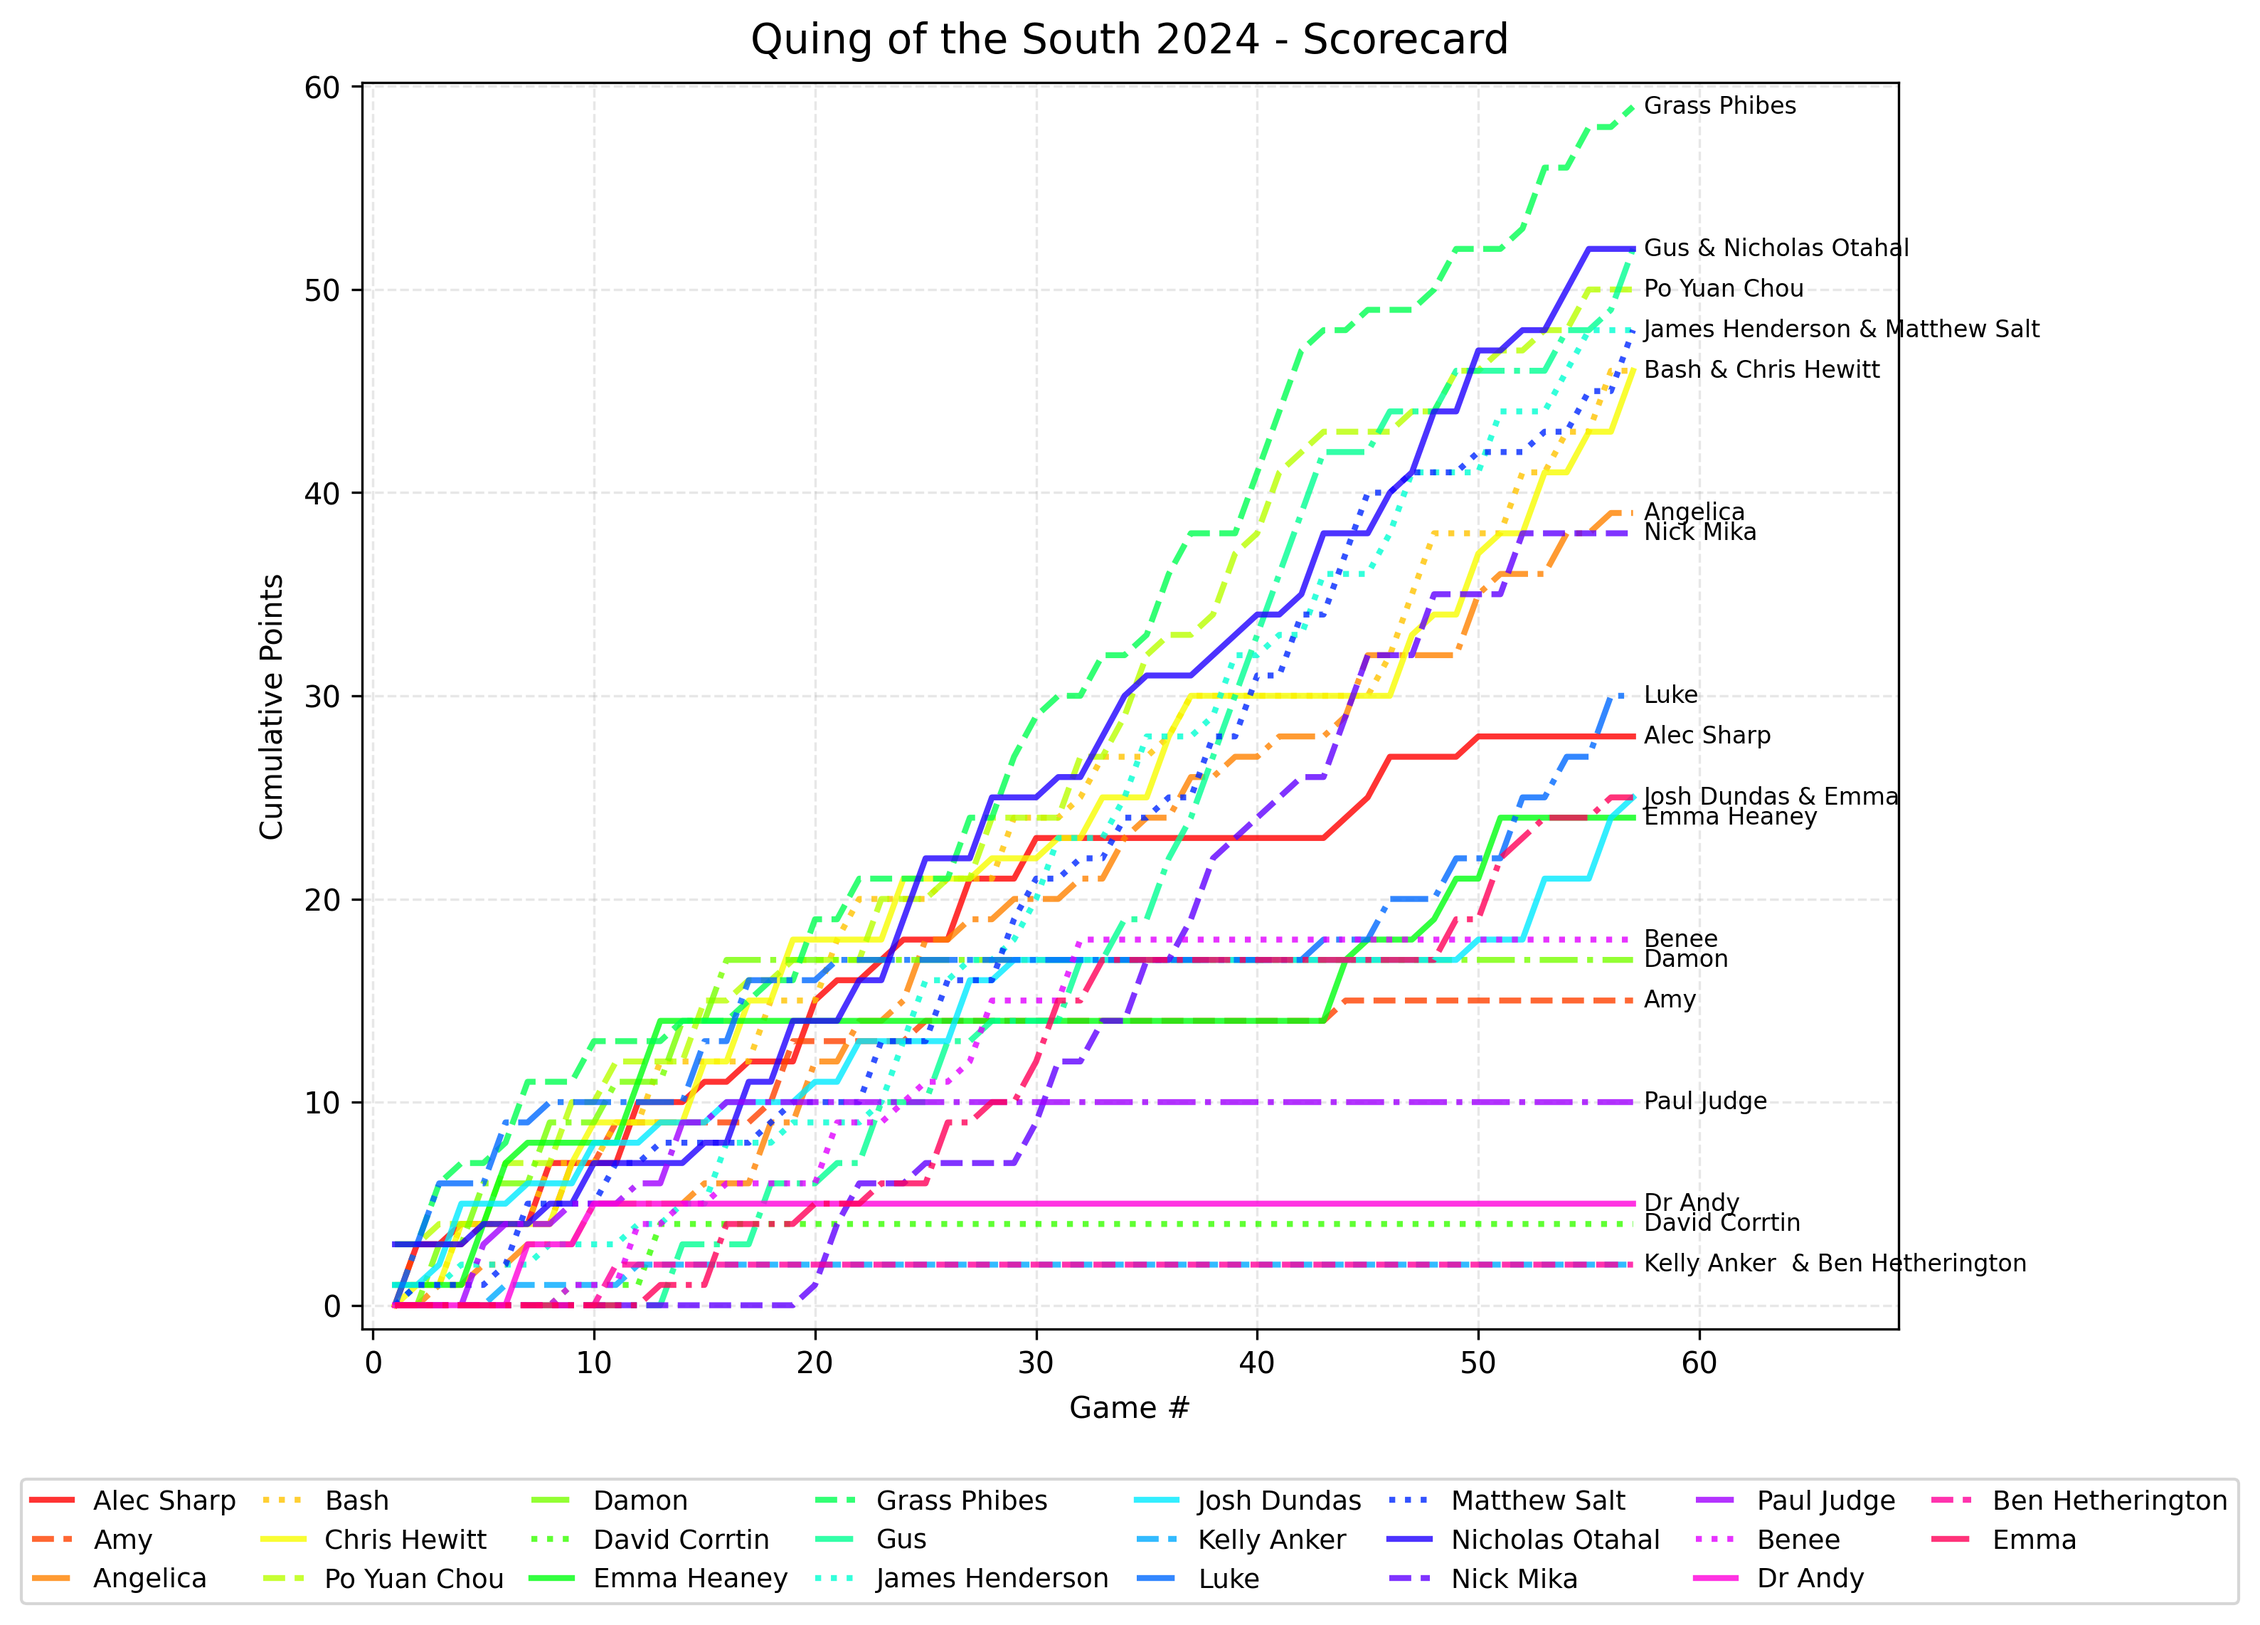
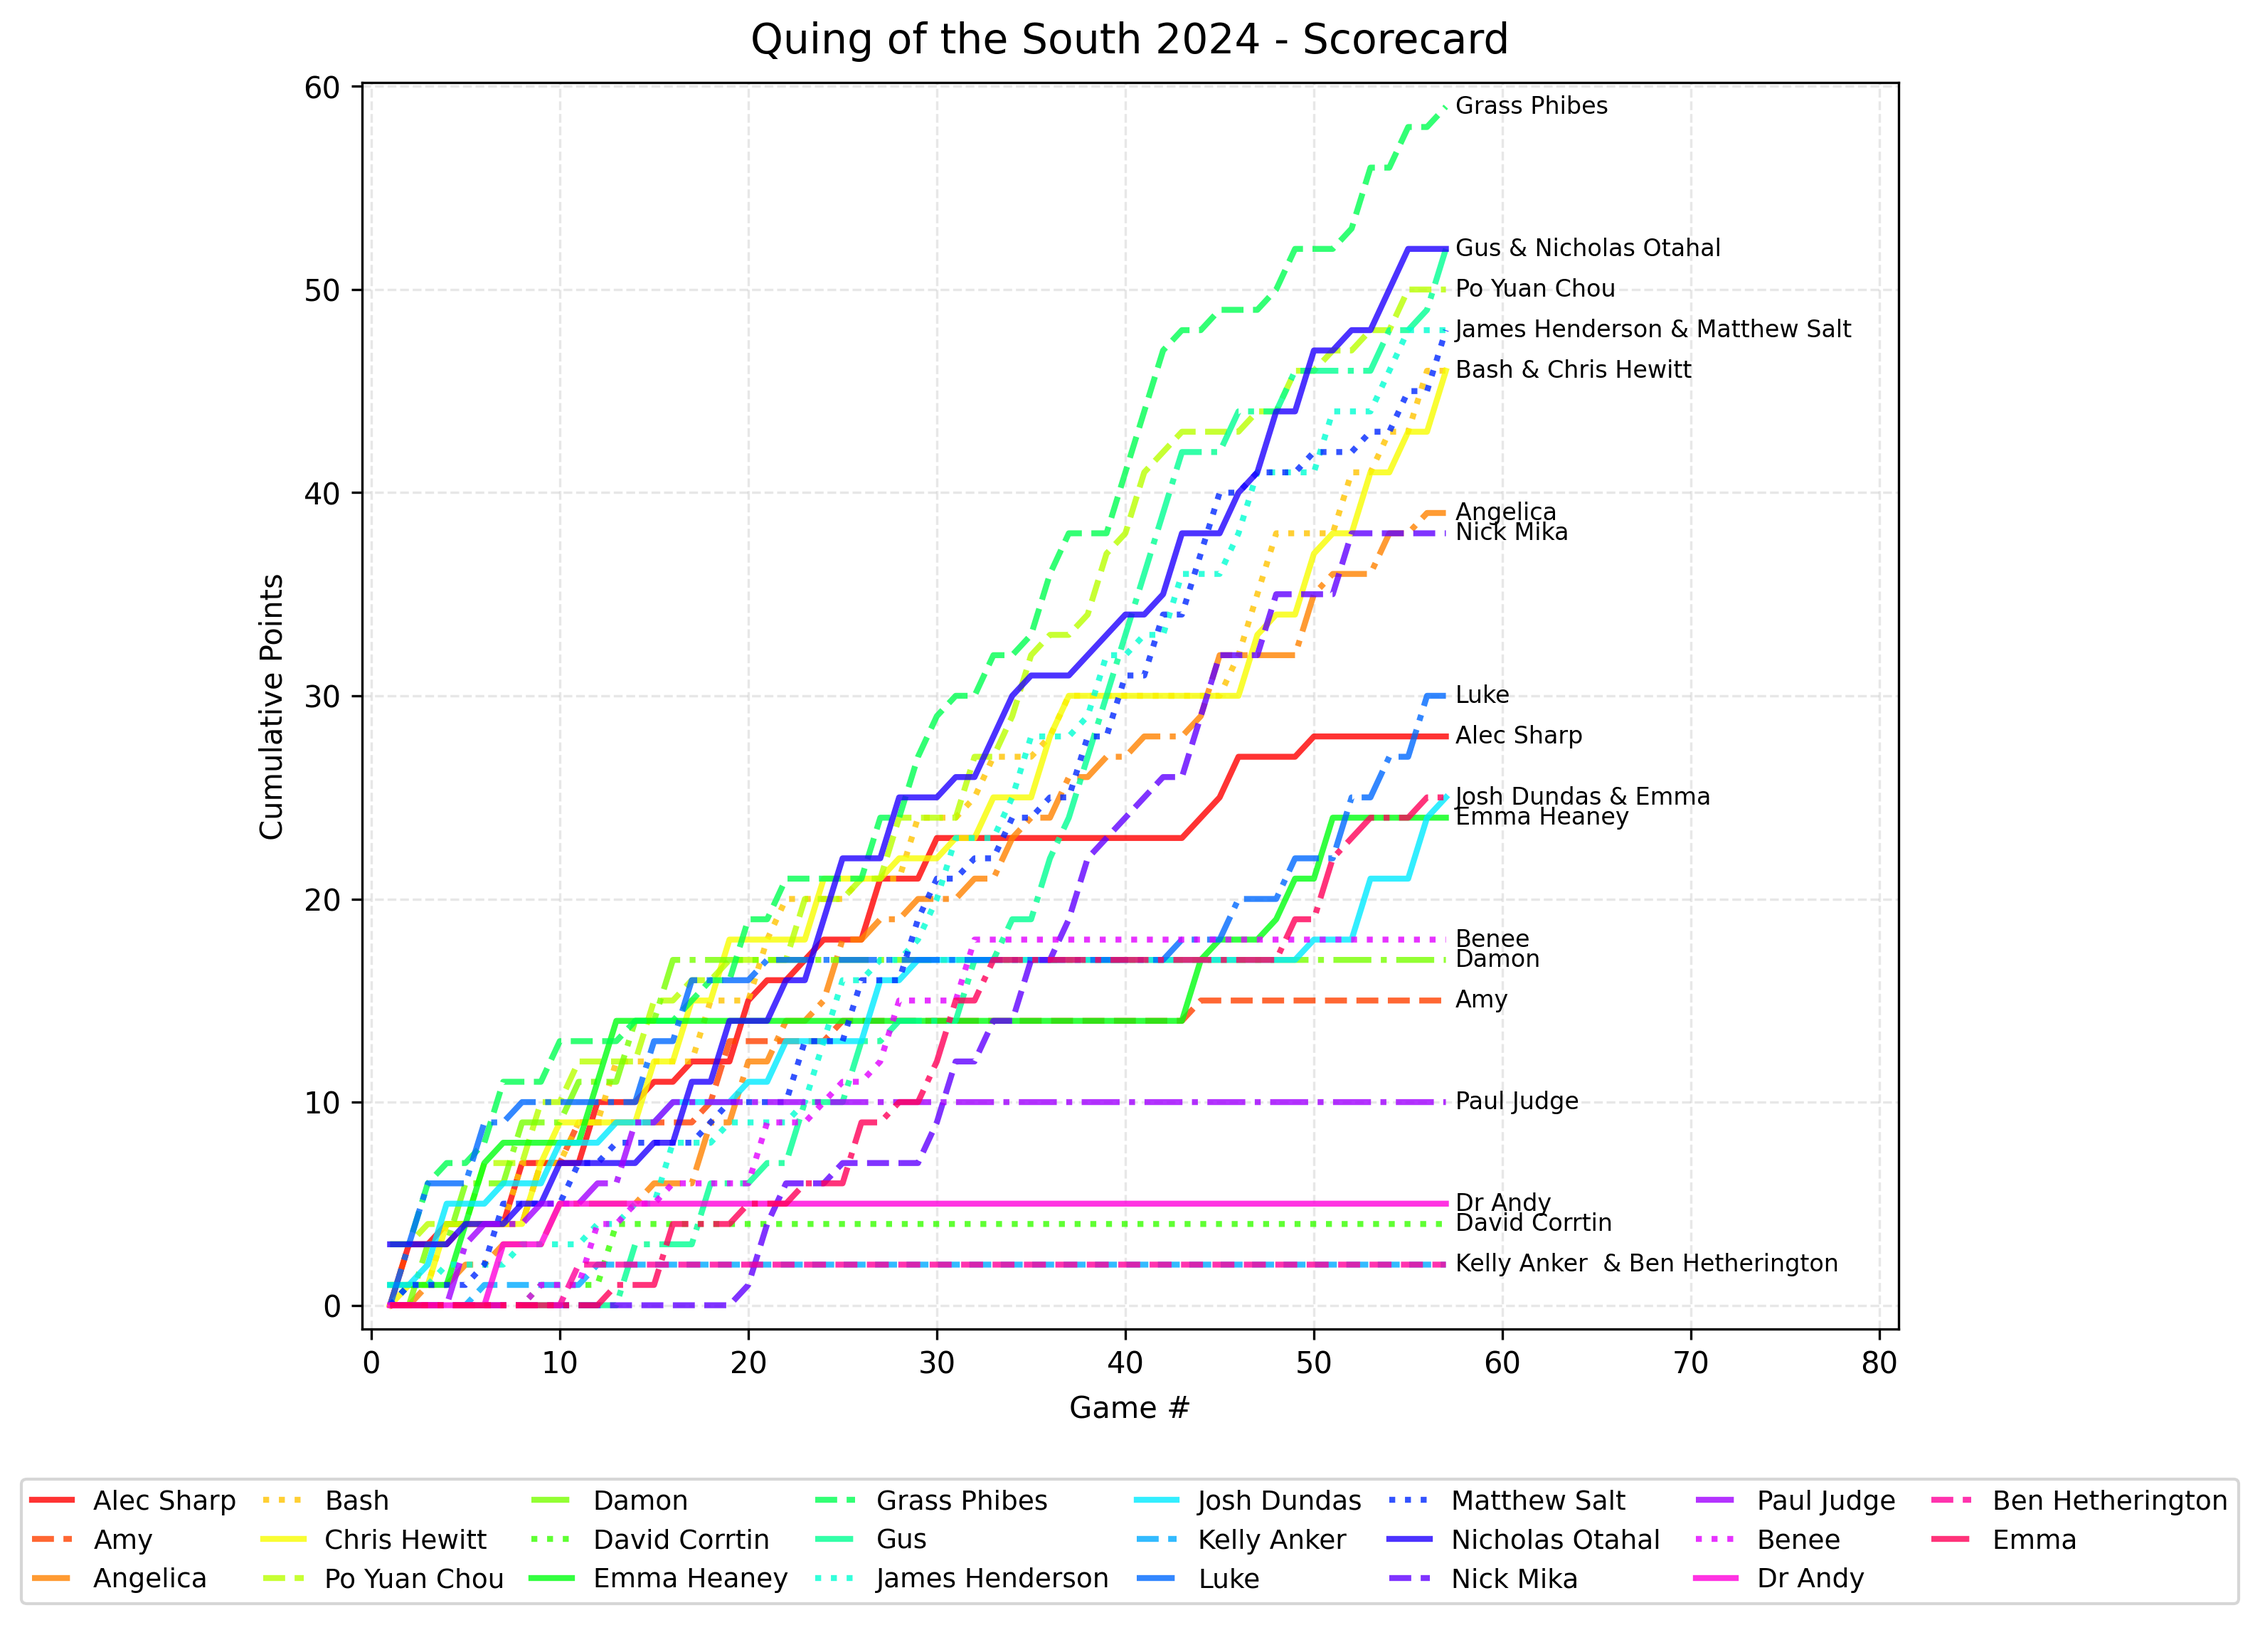
square image foramtting

Changed region(s): [[0.1558, 0.1243, 0.9037, 0.8082], [0.6544, 0.6528, 0.779, 0.6839], [0.6856, 0.0622, 0.7167, 0.0933]]

diff --git a/main.py b/main.py
@@ -88,7 +88,11 @@ def plot_cumulative_scores(df: pd.DataFrame, figsize: tuple) -> plt.Figure:
     ax.set_ylabel('Cumulative Points', fontsize=10, labelpad=5)
     ax.grid(True, linestyle='--', alpha=0.3)
     ax.margins(x=0.01, y=0.02)
-    ax.set_xlim(-0.5, max_game + 12)
+    if figsize[0] == figsize[1]:
+        added_margin = 24
+    else:
+        added_margin = 12
+    ax.set_xlim(-0.5, max_game + added_margin)
     
     # Configure legend
     ncols = min(8, len(lines))
